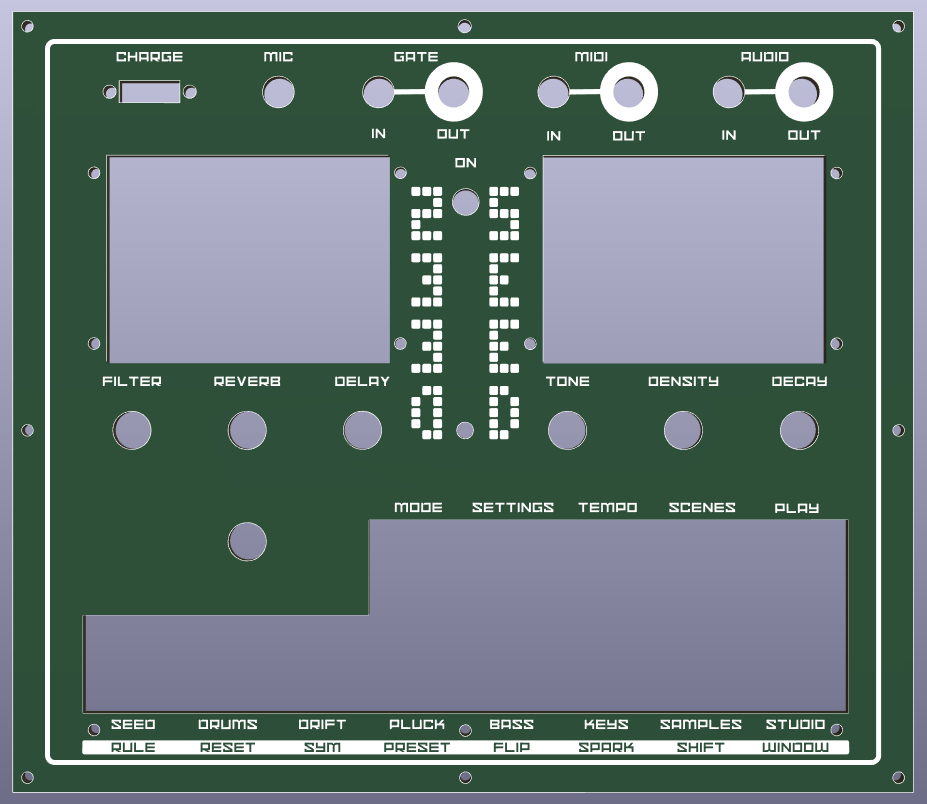
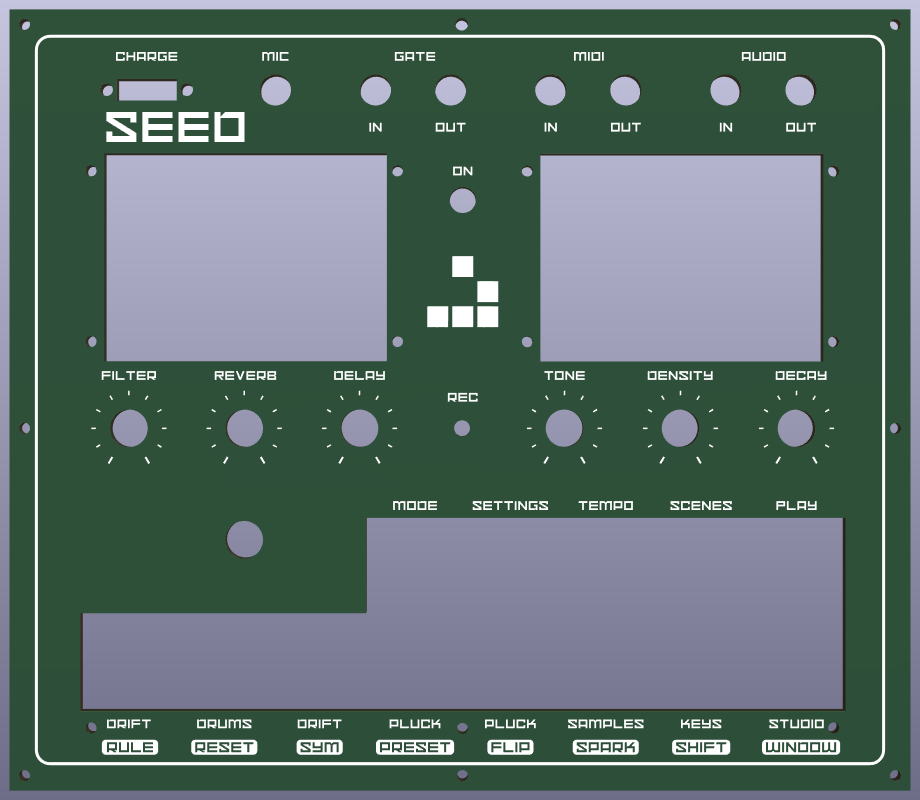
0.25.0: undo, right-click add, standing title, turn pictures, between-holes snap, OUT text boxes its jack; new README screenshots
Claude-Session: https://claude.ai/code/session_01XB8QGAWrKCzCESzDzFYy2j

diff --git a/panelgen.py b/panelgen.py
@@ -24,7 +24,7 @@ from shapely.ops import unary_union
 from shapely import affinity
 
 GROUP_NAME = "panelgen"
-VERSION = "0.24.0"
+VERSION = "0.25.0"
 
 # ---------------------------------------------------------------- s-expressions
 class Sym(str):
@@ -1714,12 +1714,24 @@ def auto_artwork(cutouts, fps, groups, outline, placed, a, edits, log, no_hole=(
     knocked = set()
     if a.art_outputs == 'on':
         tabs = []
+        jacks = {fid: next(x for x in cs if x.get('circle'))['circle'] for fid, cs in parts.items()
+                 if any(x.get('circle') for x in cs) and part_kind(next(x for x in cs if x.get('circle')), fps.get(fid)) == 'jack'}
+        own_out = {}                              # text you added saying OUT, next to a jack: that jack's label
+        for T in placed:
+            if not T.get('own') or not re.search(r'\bOUT\b', T['text'], re.I) or not jacks:
+                continue
+            jf, (jx, jy, jr) = min(jacks.items(), key=lambda kv: math.hypot(kv[1][0] - T['x'], kv[1][1] - T['y']))
+            d_ = math.hypot(jx - T['x'], jy - T['y'])
+            if d_ <= jr + 10 and (jf not in own_out or d_ < own_out[jf][0]):
+                own_out[jf] = (d_, T)
         for fid, cs in parts.items():
             c = next((x for x in cs if x.get('circle')), None)
             if not c or part_kind(c, fps.get(fid)) != 'jack':
                 continue
             L = next((x for x in placed if x['fid'] == fid), None)
             io = edits.get(fid, {}).get('io')
+            if io != 'in' and fid in own_out and (L is None or not re.search(r'\bOUT', L['text'], re.I)):
+                L = own_out[fid][1]
             out = io == 'out' or (io != 'in' and L is not None and re.search(r'\bOUT', L['text'], re.I))
             if not out:
                 continue
@@ -1735,8 +1747,8 @@ def auto_artwork(cutouts, fps, groups, outline, placed, a, edits, log, no_hole=(
             tab = rounded_box(*bx, 1.0)
             if txt:
                 tab = tab.difference(unary_union(txt))
-                knocked.add(fid)
-                a._knock_boxes[fid] = dict(box=unary_union(txt).bounds, ref=L['ref'], text=L['text'])
+                knocked.add(L['fid'])
+                a._knock_boxes[L['fid']] = dict(box=unary_union(txt).bounds, ref=L['ref'], text=L['text'], h=L['h'])
             others = holes.difference(own.buffer(0.01)).buffer(0.5)
             if tab.intersection(others).area > 0.05:
                 log.append(f"NOTE  the output box for {fps[fid].ref} runs into a nearby hole - it's trimmed there. "
@@ -1905,7 +1917,9 @@ def auto_artwork(cutouts, fps, groups, outline, placed, a, edits, log, no_hole=(
         sh = text_shapes(text, 0, 0, h, a.title_font or font, a.title_bold == 'on' if what == 'title' else sbold)
         if not sh:
             return
-        u = unary_union(sh); bx = u.bounds; w = bx[2] - bx[0]
+        if what == 'title' and a.title_vertical == 'on':       # standing up, read from the bottom
+            sh = [affinity.rotate(p, -90, origin=(0, 0)) for p in sh]
+        u = unary_union(sh); bx = u.bounds; w = bx[2] - bx[0]; hh = bx[3] - bx[1]
         pin = (a._art_pos or {}).get(key)
         def put(sx, sy):
             moved = [shapely_translate(p, sx, sy) for p in sh]
@@ -1918,17 +1932,22 @@ def auto_artwork(cutouts, fps, groups, outline, placed, a, edits, log, no_hole=(
             if not region.contains(mu) or mu.intersects(taken):
                 log.append(f"WARN  the {what} '{text}' runs into a hole, a label or the edge where you put it - drag it somewhere clear")
             return
-        for sx, sy in spots(w):
+        for sx, sy in spots(w, hh):
             mu = unary_union([shapely_translate(p, sx, sy) for p in sh])
             if region.contains(mu) and not mu.intersects(taken):
                 put(sx, sy); return
         log.append(f"WARN  no free space for the {what} '{text}' - drag it in the preview, make the text smaller, or turn it off")
     m = edge + 0.4
     th = a.title_size
-    place(a.art_title, th, lambda w: [((x1 + x2) / 2, y1 + m + th / 2), (x1 + m + w / 2, y1 + m + th / 2),
-                                      (x2 - m - w / 2, y1 + m + th / 2), ((x1 + x2) / 2, y2 - m - th / 2)], 'title', 'title')
+    if a.title_vertical == 'on':
+        title_spots = lambda w, hh: [(x1 + m + w / 2, (y1 + y2) / 2), (x2 - m - w / 2, (y1 + y2) / 2),
+                                     (x1 + m + w / 2, y1 + m + hh / 2), (x2 - m - w / 2, y1 + m + hh / 2)]
+    else:
+        title_spots = lambda w, hh: [((x1 + x2) / 2, y1 + m + hh / 2), (x1 + m + w / 2, y1 + m + hh / 2),
+                                     (x2 - m - w / 2, y1 + m + hh / 2), ((x1 + x2) / 2, y2 - m - hh / 2)]
+    place(a.art_title, th, title_spots, 'title', 'title')
     ms = max(1.5, a.label_size * 0.8)
-    place(a.art_maker, ms, lambda w: [(x2 - m - w / 2, y2 - m - ms / 2), (x1 + m + w / 2, y2 - m - ms / 2),
+    place(a.art_maker, ms, lambda w, hh: [(x2 - m - w / 2, y2 - m - ms / 2), (x1 + m + w / 2, y2 - m - ms / 2),
                                       ((x1 + x2) / 2, y2 - m - ms / 2)], 'maker name', 'maker')
 
     if dropped:
@@ -1996,7 +2015,12 @@ def image_items(images, folder, outline, groups, log):
             polys, h = image_shapes(path, im['x'], im['y'], float(im['w']), im.get('invert', False))
         except Exception as e:
             log.append(f"WARN  couldn't read the picture {im['file']} ({e})"); continue
-        im['_box'] = (im['x'] - im['w'] / 2, im['y'] - h / 2, im['x'] + im['w'] / 2, im['y'] + h / 2)
+        rot = float(im.get('rot', 0) or 0) % 360
+        frame = box(im['x'] - im['w'] / 2, im['y'] - h / 2, im['x'] + im['w'] / 2, im['y'] + h / 2)
+        if rot:                                   # turned clockwise, about its middle
+            polys = [affinity.rotate(p, rot, origin=(im['x'], im['y'])) for p in polys]
+            frame = affinity.rotate(frame, rot, origin=(im['x'], im['y']))
+        im['_box'] = frame.bounds
         if not polys:
             log.append(f"NOTE  picture {im['file']} has nothing dark enough to print - try 'White parts print' (right-click it)")
             continue
@@ -2232,6 +2256,7 @@ def main(argv=None, preview=None):
     ap.add_argument('--title-size', type=float, help='title height, mm (default 5)')
     ap.add_argument('--title-font', help='font for the title ("" = the label font)')
     ap.add_argument('--title-bold', choices=['on', 'off'])
+    ap.add_argument('--title-vertical', choices=['on', 'off'], help='title standing up along a side, read from the bottom')
     ap.add_argument('--knob-size', type=float, help='knob diameter, mm: the pot scale starts outside it (default 13)')
     ap.add_argument('--pot-sweep', type=float, help='how far the pots turn, degrees (default 300)')
     ap.add_argument('--scale-text', type=float, help='size of the numbers on pot scales, mm (default 1.4)')
@@ -2266,7 +2291,7 @@ def main(argv=None, preview=None):
                     labels='off', label_size=2.0, label_gap=1.5, label_pos='above', label_font='', label_bold='off', label_caps='off',
                     auto_art='off', art_style='', art_scale='ticks', art_rings='on', art_outputs='off', art_border='off', art_border_radius=0.0,
                     art_groups='off', art_tabs='off', art_title='',
-                    art_maker='', title_size=5.0, title_font='', title_bold='on', knob_size=13.0, pot_sweep=300.0, scale_text=1.4)
+                    art_maker='', title_size=5.0, title_font='', title_bold='on', title_vertical='off', knob_size=13.0, pot_sweep=300.0, scale_text=1.4)
     for k, d in defaults.items():          # explicit option > saved (with --again) > built-in default
         if getattr(a, k) is None:
             setattr(a, k, saved.get(k, d))
@@ -2529,7 +2554,8 @@ def main(argv=None, preview=None):
                      label_edits=label_edits, ignore_uncut=ignore_uncut, artwork=art, markers=a._markers,
                      art_items=a._art_items, texts=texts, art_pos=a._art_pos,
                      knocked=[dict(fid=f, **v) for f, v in a._knock_boxes.items()], tab_boxes=a._tab_boxes,
-                     images=[dict(id=i['id'], box=i['_box'], w=i['w'], invert=i.get('invert', False)) for i in images if '_box' in i])
+                     images=[dict(id=i['id'], box=i['_box'], w=i['w'], invert=i.get('invert', False), rot=i.get('rot', 0))
+                             for i in images if '_box' in i])
         return 1 if any(l.startswith('ERROR') for l in log) else 0
 
     uuids, items, generated = [], [], {}
@@ -2569,7 +2595,7 @@ def main(argv=None, preview=None):
                                 artwork=a.artwork, artwork_file=a.artwork_file,
                                 **{k: getattr(a, k) for k in ('auto_art', 'art_style', 'art_scale', 'art_rings', 'art_outputs', 'art_border',
                                                               'art_border_radius', 'art_groups', 'art_tabs',
-                                                              'art_title', 'art_maker', 'title_size', 'title_font', 'title_bold',
+                                                              'art_title', 'art_maker', 'title_size', 'title_font', 'title_bold', 'title_vertical',
                                                               'knob_size', 'pot_sweep', 'scale_text')})},
               open(mem_path, 'w', encoding='utf-8'), indent=1)
 

diff --git a/docs/TECHNICAL.md b/docs/TECHNICAL.md
@@ -146,10 +146,12 @@ Tick **Add labels from the PCB** in the window (or `--labels on`) to print a lab
 - **Text size and other fonts:** KiCad draws a font from your computer 1.4 x bigger than its text size (its letters fill an em square of size x 1.4). So 3.5 mm in a wide font is much bigger than 3.5 mm in KiCad's font. The preview and the SVG template both show the true size.
 - Labels are also written into the SVG template, on a layer that isn't imported back (so they're never doubled up).
 - **Parts with no hole** (edge jacks, a reset button behind the panel, anything marked "no cutout needed") get a label too, listed as "(no hole)" in Edit labels. It goes on the side of the part that's inside the panel, or on the part itself if neither side fits.
-- **Drag to move:** in the preview, drag any label (including one cut out of an output box or edge tab, which then grows or moves to follow it, and the shared word under an edge tab), the title, the maker name or your own text. Its middle snaps (within 8 pixels) to the middle of any hole, label, marker, tab, picture, the title or the panel across, to the height of any of those, and to the middle of the gap between the nearest things either side of it (or above and below); pink lines show what it snapped to. A new text snaps where you click. Hold Alt to place freely. A label keeps the offset you gave it (as if you'd moved it in KiCad); the title and maker are pinned where you drop them (right-click > put it back in its automatic place). Moving labels or your texts in KiCad is kept too.
+- **Drag to move:** in the preview, drag any label (including one cut out of an output box or edge tab, which then grows or moves to follow it, and the shared word under an edge tab), the title, the maker name or your own text. Its middle snaps (within 8 pixels) to the middle of any hole, label, marker, tab, picture, the title or the panel across, to the height of any of those, half way between two neighbouring holes in a row or column (a label over a pair of jacks), and to the middle of the gap between the nearest things either side of it (or above and below); pink lines show what it snapped to. A new text snaps where you click. Hold Alt to place freely. A label keeps the offset you gave it (as if you'd moved it in KiCad); the title and maker are pinned where you drop them (right-click > put it back in its automatic place). Moving labels or your texts in KiCad is kept too.
 - **Boxes round text:** select your text or a label and set **Box**: *Line round it* (0.3 mm line, the text stays a KiCad text) or *Filled bar* (the text is cut out of a solid bar, so it uses the label font file, or a bold sans with KiCad's own font). The box starts just round the text; drag its ends (or type how much longer) to stretch it, e.g. over two keys. Its ends snap to key labels, hole edges and the edges of other boxes, and the text stays centred in it. Stored as `box` on the text or label and `box:<text>` for the stretch.
 - **Tabs and output boxes:** drag any edge of one (the nearest edge to where you grab it) to make it bigger; that edge snaps to the edges of the other tabs and boxes. Or type how much bigger in the left panel when it's selected. Stored in the label edits as `tab:<part>`.
-- **Pictures:** **Add picture…** copies a PNG, JPG, GIF, BMP or SVG into `Front Panel\images` and puts it in the middle of the panel, 20 mm wide (or a quarter of the panel). Dark parts print, transparent and light parts don't (*Print the light parts instead* (left panel, when it's selected) swaps that). It's traced like Inkscape artwork (up to 1200 pixels across), trimmed off holes and the edge with a NOTE, and drawn on F.Silkscreen. SVGs need Inkscape. Set its width in the left panel when it's selected; the height follows. Right-click still works as a shortcut. Stored in the memory file (`images`).
+- **Pictures:** **Add picture…** copies a PNG, JPG, GIF, BMP or SVG into `Front Panel\images` and puts it in the middle of the panel, 20 mm wide (or a quarter of the panel). Dark parts print, transparent and light parts don't (*Print the light parts instead* (left panel, when it's selected) swaps that). It's traced like Inkscape artwork (up to 1200 pixels across), trimmed off holes and the edge with a NOTE, and drawn on F.Silkscreen. SVGs need Inkscape. Set its width and how far to turn it (any angle, or ↺ / ↻ 90) in the left panel when it's selected; the height follows. Right-click still works as a shortcut. Stored in the memory file (`images`).
+- **Undo:** the Undo button above the preview (or Ctrl+Z, outside a text box) takes back the last change to labels, texts, pictures, boxes, tabs and positions, up to 50 steps. Settings on the left aren't part of it. The history starts again when you load a board or generate.
+- **Right-click an empty spot** on the panel to add text or a picture right there.
 - **Your own text:** **Add text**, then click on the panel and type. It's printed like a label (same font, bold and ALL CAPS settings, the label size unless you set one with right-click > Text size), checked like a label, and works even with PCB labels switched off. Stored in the panel's memory file (`texts`).
 - **Gap for one label:** double-click Gap in Edit labels (blank = the main setting). For a part that runs off the panel edge, choosing that side (Above for a top-edge jack) puts the label just inside the edge, with the gap measured from the edge.
 - **Label text** comes from a `Label` field, else the Value if it reads like a name (not `10K` or `100nF`), else the Reference if it isn't a standard one (`AMT1` gives `AMT`; `RV1` gives nothing).
@@ -164,11 +166,11 @@ Tick **Make artwork for me** (or `--auto-art on`). The artwork is drawn from the
 |---|---|---|---|
 | Pot scales | Pot scale | `--art-scale none/ticks/numbers/bipolar` | 11 marks over `--pot-sweep 300` degrees, starting `--knob-size 13` / 2 + 0.6 mm from the centre. Numbers are `--scale-text 1.4` mm. Pots are found by rule or footprint name (pot, potentiometer, R_Pot); encoders get none |
 | Rings | Rings round buttons | `--art-rings on` | 0.8 mm wide, 0.8 mm out from the hole, on round push buttons (Alps SKRC, switch/button footprints) |
-| Output boxes | Outputs in filled boxes | `--art-outputs on` | Jacks whose label contains OUT (or set to output in Edit labels). The label is cut out of the box, using the label font (a bold sans when the labels use KiCad's own font, which has no font file) |
+| Output boxes | Outputs in filled boxes | `--art-outputs on` | Jacks whose label contains OUT (or set to output in Edit labels), or that have a text you added saying OUT within 10 mm of the hole (the nearest jack to that text). The label is cut out of the box, using the label font (a bold sans when the labels use KiCad's own font, which has no font file) |
 | Border | Border, corner radius | `--art-border on`, `--art-border-radius 0` | 0.6 mm line inside the case screws, broken round any hole and edge tab. Radius 0 follows the panel corners |
 | Boxes | Boxes round rows of controls | `--art-groups on` | 3+ of the same kind (pots/encoders, buttons, toggles, jacks) centred on one line (within 1 mm) and no more than 32 mm apart. 0.6 mm line, 1.5 mm outside their scales, rings and labels, 2 mm corners. Left out with a NOTE if it would touch another part, a label or the edge |
 | Edge tabs | Tabs for edge jacks | `--art-tabs on` | Parts with no hole whose courtyard crosses the top or bottom edge. Neighbours under 10 mm apart share a tab. Labels with the same first word (MIDI IN / MIDI OUT) become IN / OUT over each jack with MIDI underneath |
-| Title / maker | Title, Maker | `--art-title`, `--art-maker`, `--title-size 5`, `--title-font`, `--title-bold` | Top centre, then top left, top right, bottom centre: the first spot clear of holes, labels and other artwork |
+| Title / maker | Title, Maker, Across / Standing up | `--art-title`, `--art-maker`, `--title-size 5`, `--title-font`, `--title-bold`, `--title-vertical` | Top centre, then top left, top right, bottom centre: the first spot clear of holes, labels and other artwork |
 
 - **Labels move out of the way:** with this on, a pot's label starts outside its knob and scale, and a button's outside its ring. Any label whose usual side runs into a cutout or off the panel goes on the other side (that applies with this off too).
 - **Per part:** in Edit labels, click a pot's **Artwork** cell to cycle auto / ticks / 0-10 / − 0 + / no scale, or a jack's to cycle auto / output / input.

diff --git a/README.md b/README.md
@@ -8,7 +8,7 @@ You don't need to trace parts onto a User layer, export to Fusion or Inkscape an
 
 ![A finished panel in KiCad's 3D viewer](docs/images/finished_3d.png)
 
-*The front panel for my Game of Life synth: holes, labels and artwork all made with Panel Generator, shown in KiCad's 3D viewer.*
+*The front panel for my Game of Life synth: holes, labels, pot scales, boxed key functions and the glider all made in Panel Generator, no Inkscape. Shown in KiCad's 3D viewer.*
 
 ## What you need
 
@@ -60,24 +60,16 @@ Tick **Add labels from the PCB** and a label section opens. Each pot, jack and s
 
 ![Labels added from the PCB, in a custom font](docs/images/step3_labels.png)
 
-**Move things by dragging them in the preview:** any label, the title or your own text. It snaps into line with the other labels, to the middle of holes, and to the middle of the gap between two things (hold **Alt** to place it freely). Click one to select it: its settings appear on the left under **Your text and pictures** (text, size, put it back, hide, delete).
-
-**Need text that isn't on the PCB?** For example, what each key does. Click **Add text…** (in *Your text and pictures*), click where it goes and type it. Drag it to move it; click it to change its text or size, or delete it.
-
-**Boxes round text:** for a key with two jobs, or a function that needs two keys pressed, click the text and set **Box** to *Line round it* or *Filled bar* (text cut out). Then click the box and drag its ends to stretch it over the keys; it snaps to the key labels and to other boxes, and the text stays in the middle.
-
-**Pictures:** click **Add picture…** and pick a PNG, JPG or SVG (a glider, a logo). Its dark parts print. Drag it into place, and click it to set its width, print its light parts instead, or delete it.
-
 ### 4. Let it make the artwork (optional)
 
 Don't want to open Inkscape? Tick **Make artwork for me** and Panel Generator draws the artwork from your panel:
 
 - **Pot scales:** tick marks, 0–10 numbers or centre-zero (− 0 +) round each pot, over a 300° turn. Set the **Knob** size so the scale and the label start outside the knob.
 - **Rings** round push buttons.
-- **Outputs in filled boxes:** any jack whose label says OUT gets a solid box with the label cut out of it, the usual way modular panels show outputs.
+- **Outputs in filled boxes:** any jack whose label says OUT gets a solid box with the label cut out of it, the usual way modular panels show outputs. A text you add saying OUT right next to a jack counts too.
 - **Boxes round rows of controls:** a box round 3 or more of the same control in a row or column, scales and labels inside.
 - **Tabs for edge jacks:** jacks on the panel edge (the plug goes in from the side) get a filled tab hanging from the edge with their labels cut out. Labels like MIDI IN and MIDI OUT become IN / OUT with MIDI underneath. Drag an edge of a tab or output box to make it bigger; it snaps to the edges of the others, so you can make them all the same size.
-- **Border** (square, following the panel, or with its own rounded corners) and a **title** along the top (plus your name or brand, small, along the bottom). They go in the first free spot; drag them anywhere.
+- **Border** (square, following the panel, or with its own rounded corners) and a **title**, across the top or standing up along a side (plus your name or brand, small, along the bottom). They go in the first free spot; drag them anywhere.
 
 Pick a **Style** to start from (*Minimal*, *Classic synth* or *Modular*) and change anything after. To change one part (a centre-zero scale for a pan pot, or a jack that's an output but isn't labelled OUT), click its **Artwork** cell in **Edit labels**. Anything that would hit a hole, a label or the edge is left out, and you get a note.
 
@@ -85,7 +77,20 @@ Pick a **Style** to start from (*Minimal*, *Classic synth* or *Modular*) and cha
 
 You can use this and Inkscape together: the made artwork appears in the Inkscape file on its own layer, so you can draw more on top.
 
-### 5. Draw your own artwork in Inkscape (optional)
+### 5. Add your own text, pictures and boxes (optional)
+
+Everything here is done in the preview, with the settings under **Your text and pictures** on the left.
+
+- **Move anything by dragging it:** a label, your text, a picture or the title. It snaps into line with the other labels, to the middle of holes, half way between two holes (a MIDI label over its IN and OUT jacks), and to the middle of the gap between two things. Hold **Alt** to place it freely.
+- **Click anything to change it.** Its settings appear on the left: text, size, put it back, hide or delete.
+- **Add text** for things that aren't on the PCB, such as what each key does: click **Add text…** (or right-click the panel and choose *Add text here*), then click where it goes and type it.
+- **Boxes round text:** for a key with two jobs, or a function that needs two keys pressed, click the text and set **Box** to *Line round it* or *Filled bar* (text cut out). Then drag the box's ends to stretch it over the keys. It snaps to the key labels and to other boxes, and the text stays in the middle.
+- **Pictures:** click **Add picture…** and pick a PNG, JPG or SVG (a glider, a logo). Its dark parts print. Drag it into place, then click it to set its width, turn it, print its light parts instead, or delete it.
+- **Undo** (or Ctrl+Z) takes back the last change in the preview.
+
+![Your own text, pictures and boxes](docs/images/text_pictures.png)
+
+### 6. Draw your own artwork in Inkscape (optional)
 
 Labels only do text. For anything else (borders, logos, boxes, white-on-black text, your own fonts), tick **Add my artwork to the silkscreen** and click **Create artwork file**.
 
@@ -104,7 +109,7 @@ The red holes aren't printed. They're redrawn from the PCB every time you genera
 
 ![Inkscape artwork in the preview](docs/images/step4_artwork.png)
 
-### 6. Generate the panel
+### 7. Generate the panel
 
 When the preview looks right, click **Generate panel**. This makes the panel file (`<your board>_panel.kicad_pcb`) in a `Front Panel` folder next to your PCB, and opens it in KiCad so you can check it, including in the 3D viewer.
 
@@ -114,7 +119,7 @@ Close the panel in KiCad before you generate again, so the file can be replaced.
 
 ![The generated panel open in KiCad](docs/images/step5_kicad.png)
 
-### 7. Make gerbers
+### 8. Make gerbers
 
 Click **Make gerbers**. Panel Generator uses KiCad to make the gerber and drill files, checks the panel, and puts everything in one zip in the `Front Panel` folder. Upload that zip to JLCPCB, PCBWay or a similar fab.
 

diff --git a/CHANGELOG.md b/CHANGELOG.md
@@ -1,5 +1,15 @@
 # Changelog
 
+## 0.25.0
+
+- **Undo** button (and Ctrl+Z) for changes made in the preview and the left panel's selection settings.
+- **Right-click an empty spot** to add text or a picture there.
+- **Title across or standing up** along a side.
+- **Turn pictures** by any angle, or 90° at a time.
+- **Snaps half way between two holes** in a row or column, e.g. MIDI over its IN and OUT jacks.
+- **A text you add saying OUT next to a jack** gives that jack an output box, for jacks with no label on the PCB.
+- README: new screenshots and a step for your own text, pictures and boxes.
+
 ## 0.24.0
 
 - **Boxes round text:** a line round a text or label, or a filled bar with the text cut out. Drag the ends to stretch it over two keys (snaps to key labels and other boxes); the text stays centred.
